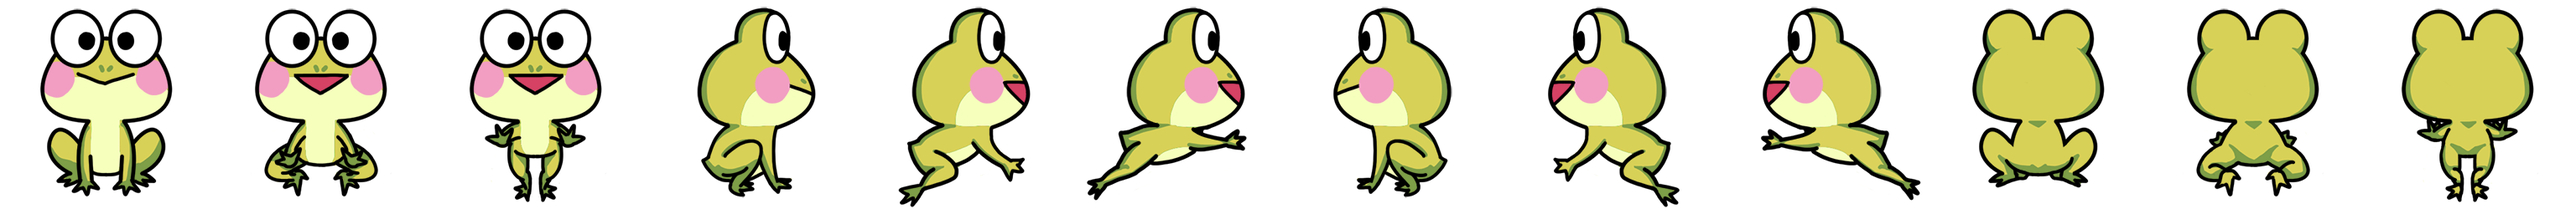
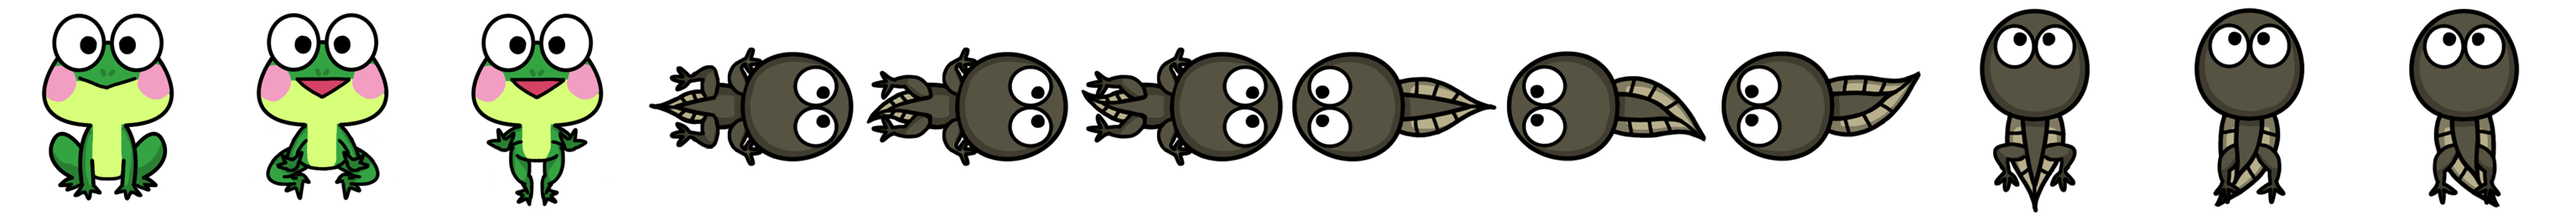
a5 이미지변경

diff --git a/public/js/blocks.js b/public/js/blocks.js
@@ -98,7 +98,7 @@ Blocks["frog_right"] = {
     en: "%1 becom frog"
   },
   args0: [
-    {type: "field_image", src: "/img/a5_w4/TutoToad4_256.png"}
+    {type: "field_image", src: "/img/a5_w4/frog.png"}
   ],
   action: ["steploop", "frog_right"]
 };
@@ -121,7 +121,7 @@ Blocks["memi_step1"] = {
     en: "%1 cicada eggs"
   },
   args0: [
-    {type: "field_image", src: "/img/a5_w3/memi_step1.png"}
+    {type: "field_image", src: "/img/a5_w3/bg31_step1.png"}
   ],
   action: ["memigrowing", "memi_step1"]
 };
@@ -132,7 +132,7 @@ Blocks["memi_step2"] = {
     en: "%1 larva under ground"
   },
   args0: [
-    {type: "field_image", src: "/img/a5_w3/memi_step2.png"}
+    {type: "field_image", src: "/img/a5_w3/bg24_step2.png"}
   ],
   action: ["memigrowing", "memi_step2"]
 };
@@ -143,7 +143,7 @@ Blocks["memi_step3"] = {
     en: "%1 larva on the tree"
   },
   args0: [
-    {type: "field_image", src: "/img/a5_w3/memi_step3.png"}
+    {type: "field_image", src: "/img/a5_w3/bg22_step3.png"}
   ],
   action: ["memigrowing", "memi_step3"]
 };
@@ -154,7 +154,7 @@ Blocks["memi_step4"] = {
     en: "%1 metamorphosis of cicada"
   },
   args0: [
-    {type: "field_image", src: "/img/a5_w3/memi_step4.png"}
+    {type: "field_image", src: "/img/a5_w3/bg21_step4.png"}
   ],
   action: ["memigrowing", "memi_step4"]
 };
@@ -165,7 +165,7 @@ Blocks["memi_step5"] = {
     en: "%1 cicada imago"
   },
   args0: [
-    {type: "field_image", src: "/img/a5_w3/memi_step5.png"}
+    {type: "field_image", src: "/img/a5_w3/bg01_step5.png"}
   ],
   action: ["memigrowing", "memi_step5"]
 };

diff --git a/public/js/actions.js b/public/js/actions.js
@@ -374,7 +374,7 @@ Actions.prototype.steploop = function(type, block, callback) {
   } else if(type == "frog_up") {
     stepList = ["u","u"];
   } else if(type == "frog_right") {
-    stepList = ["r","r","r"];
+    stepList = ["r","r","r","r"];
   } else if(type == "frog_down") {
     stepList = ["d","d","d"];
   }
